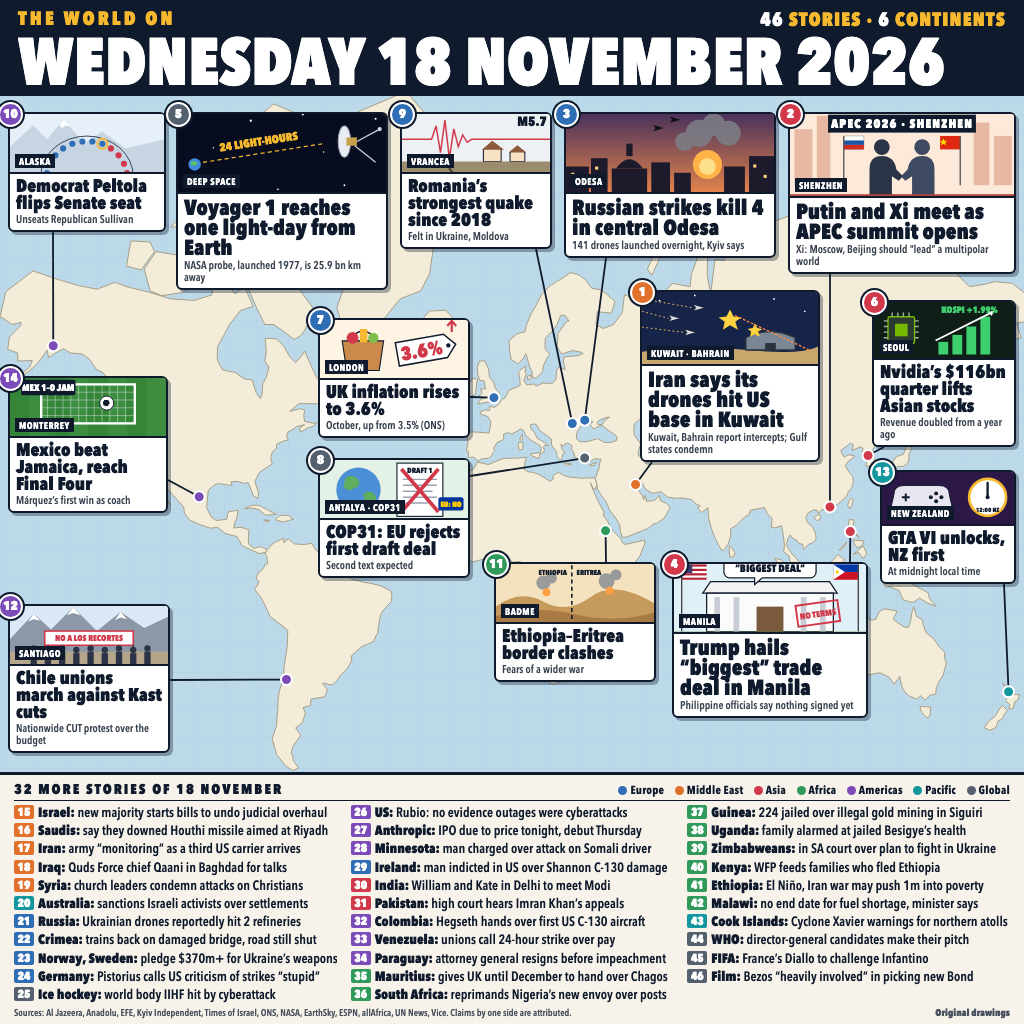
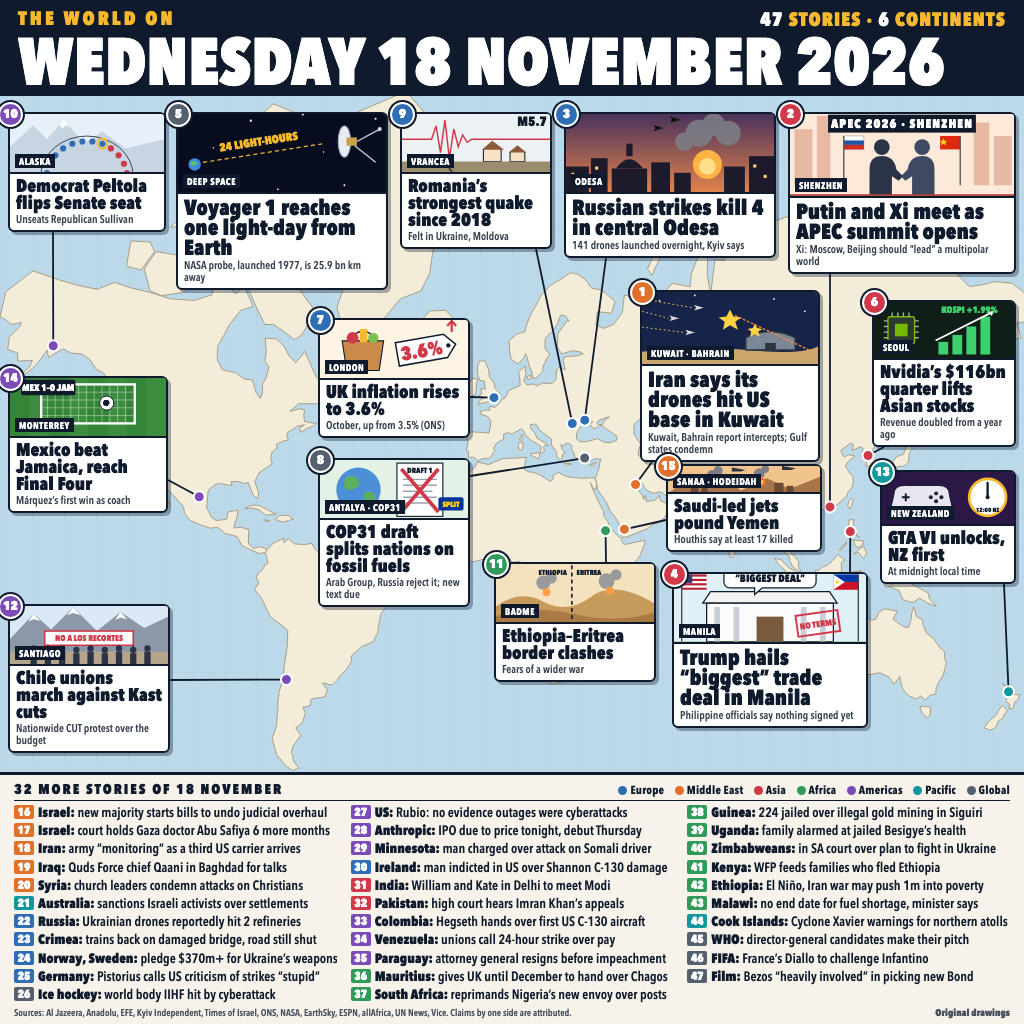
Afternoon refresh: Saudi-led strikes on Yemen card, COP31 split, 47 stories

diff --git a/layout/map.html b/layout/map.html
@@ -88,7 +88,7 @@
 
 <header>
   <div class="kicker">THE WORLD ON</div>
-  <div class="count"><b>46</b> STORIES · <b>6</b> CONTINENTS</div>
+  <div class="count"><b>47</b> STORIES · <b>6</b> CONTINENTS</div>
   <h1>WEDNESDAY 18 NOVEMBER 2026</h1>
 </header>
 
@@ -266,7 +266,7 @@ const V = {
     <text x="135" y="24" font-family="Avenir Next Condensed" font-weight="800" font-size="10" fill="#0f1b2d" text-anchor="middle">DRAFT 1</text>
     <g stroke="#9aa3ad" stroke-width="2"><path d="M112 32h46M112 40h46M112 48h40M112 56h46M112 64h34"/></g>
     <path d="M110 18 L160 76 M160 18 L110 76" stroke="#d1394b" stroke-width="5"/>
-    <rect x="160" y="56" width="34" height="18" rx="3" fill="#003399"/><text x="177" y="69" font-family="Avenir Next Condensed" font-weight="800" font-size="10" fill="#ffcc00" text-anchor="middle">EU: NO</text>`,
+    <rect x="160" y="56" width="34" height="18" rx="3" fill="#003399"/><text x="177" y="69" font-family="Avenir Next Condensed" font-weight="800" font-size="10" fill="#ffcc00" text-anchor="middle">SPLIT</text>`,
   ethiopia: `<rect width="200" height="90" fill="#f4e1bd"/>
     <path d="M0 62 Q30 40 60 56 T120 50 T200 58 V90 H0z" fill="#c69a5b"/>
     <path d="M0 74 Q50 60 100 72 T200 70 V90 H0z" fill="#a97a43"/>
@@ -284,6 +284,12 @@ const V = {
     <g fill="#2a3446"><circle cx="30" cy="62" r="4"/><circle cx="48" cy="64" r="4"/><circle cx="66" cy="62" r="4"/><circle cx="84" cy="64" r="4"/><circle cx="102" cy="62" r="4"/><circle cx="120" cy="64" r="4"/><circle cx="138" cy="62" r="4"/><circle cx="156" cy="64" r="4"/><circle cx="174" cy="62" r="4"/>
     <rect x="26" y="66" width="8" height="18"/><rect x="44" y="68" width="8" height="18"/><rect x="62" y="66" width="8" height="18"/><rect x="80" y="68" width="8" height="18"/><rect x="98" y="66" width="8" height="18"/><rect x="116" y="68" width="8" height="18"/><rect x="134" y="66" width="8" height="18"/><rect x="152" y="68" width="8" height="18"/><rect x="170" y="66" width="8" height="18"/></g>
     <g stroke="#2a3446" stroke-width="2"><path d="M48 58 V64M156 58V64"/></g>`,
+  yemen: `<rect width="200" height="90" fill="#f2c48d"/>
+    <path d="M0 64 L24 46 L44 58 L70 40 L96 60 L130 44 L160 58 L200 42 V90 H0z" fill="#a8744a"/>
+    <g fill="#6b4a33"><rect x="30" y="52" width="10" height="12"/><rect x="44" y="48" width="8" height="16"/><rect x="140" y="50" width="12" height="14"/><rect x="156" y="54" width="9" height="10"/></g>
+    <g fill="#7d7d86"><circle cx="58" cy="40" r="7"/><circle cx="66" cy="34" r="6"/><circle cx="120" cy="38" r="7"/><circle cx="128" cy="32" r="5"/></g>
+    <g fill="#ff7b2e"><circle cx="60" cy="50" r="6"/><circle cx="122" cy="48" r="6"/></g><g fill="#ffd23f"><circle cx="60" cy="51" r="3"/><circle cx="122" cy="49" r="3"/></g>
+    <g fill="#2b3440"><path d="M84 30 l18 3 l-6 2 l-12 0z"/><path d="M150 28 l18 3 l-6 2 l-12 0z"/></g>`,
   gta: `<rect width="200" height="90" fill="#2b1846"/>
     <circle cx="160" cy="44" r="28" fill="#fff" stroke="#f5b82e" stroke-width="4"/>
     <path d="M160 44 V22 M160 44 V24" stroke="#0f1b2d" stroke-width="3.5" stroke-linecap="round"/><circle cx="160" cy="44" r="3" fill="#0f1b2d"/>
@@ -300,16 +306,17 @@ const CARDS = [
   { n:1, big:true, col:C.me, x:640, y:290, w:180, ih:74, v:'iran', tag:'Kuwait · Bahrain', h:'Iran says its drones hit US base in Kuwait', p:'Kuwait, Bahrain report intercepts; Gulf states condemn', dot:[47.98,29.37], from:[652,0] },
   { n:2, big:true, col:C.as, x:788, y:112, w:228, ih:84, v:'putinxi', tag:'Shenzhen', h:'Putin and Xi meet as APEC summit opens', p:'Xi: Moscow, Beijing should “lead” a multipolar world', dot:[114.06,22.54], from:[830,0] },
   { n:3, big:true, col:C.eu, x:564, y:112, w:212, ih:80, v:'odesa', tag:'Odesa', h:'Russian strikes kill 4 in central Odesa', p:'141 drones launched overnight, Kyiv says', dot:[30.73,46.48], from:[606,0] },
-  { n:4, big:true, col:C.as, x:672, y:562, w:196, ih:70, v:'trumpph', tag:'Manila', h:'Trump hails “biggest” trade deal in Manila', p:'Philippine officials say nothing signed yet', dot:[120.98,14.6], from:[850,0] },
+  { n:4, big:true, col:C.as, x:672, y:572, w:196, ih:70, v:'trumpph', tag:'Manila', h:'Trump hails “biggest” trade deal in Manila', p:'Philippine officials say nothing signed yet', dot:[120.98,14.6], from:[850,0] },
   { n:5, big:true, col:C.gl, x:176, y:112, w:212, ih:80, v:'voyager', tag:'Deep space', h:'Voyager 1 reaches one light-day from Earth', p:'NASA probe, launched 1977, is 25.9 bn km away', dot:null },
   { n:6, col:C.as, x:872, y:300, w:144, ih:58, v:'nvidia', tag:'Seoul', h:'Nvidia’s $116bn quarter lifts Asian stocks', p:'Revenue doubled from a year ago', dot:[127,37.57], from:[884,0] },
   { n:7, col:C.eu, x:318, y:318, w:152, ih:60, v:'uk', tag:'London', h:'UK inflation rises to 3.6%', p:'October, up from 3.5% (ONS)', dot:[-0.13,51.5], from:[0,397] },
-  { n:8, col:C.gl, x:318, y:458, w:152, ih:60, v:'cop', tag:'Antalya · COP31', h:'COP31: EU rejects first draft deal', p:'Second text expected', dot:[30.7,36.9], from:[0,476] },
+  { n:8, col:C.gl, x:318, y:458, w:152, ih:60, v:'cop', tag:'Antalya · COP31', h:'COP31 draft splits nations on fossil fuels', p:'Arab Group, Russia reject it; new text due', dot:[30.7,36.9], from:[0,476] },
   { n:9, col:C.eu, x:400, y:112, w:152, ih:60, v:'romania', tag:'Vrancea', h:'Romania’s strongest quake since 2018', p:'Felt in Ukraine, Moldova', dot:[26.5,45.7], from:[536,0] },
   { n:10, col:C.am, x:8, y:112, w:158, ih:60, v:'alaska', tag:'Alaska', h:'Democrat Peltola flips Senate seat', p:'Unseats Republican Sullivan', dot:[-149.9,61.2], from:[53,0] },
   { n:11, col:C.af, x:494, y:562, w:162, ih:60, v:'ethiopia', tag:'Badme', h:'Ethiopia–Eritrea border clashes', p:'Fears of a wider war', dot:[37.8,14.9], from:[606,0] },
   { n:12, col:C.am, x:8, y:604, w:162, ih:60, v:'chile', tag:'Santiago', h:'Chile unions march against Kast cuts', p:'Nationwide CUT protest over the budget', dot:[-70.65,-33.45], from:[0,680] },
   { n:13, col:C.pa, x:880, y:470, w:136, ih:54, v:'gta', tag:'New Zealand', h:'GTA VI unlocks, NZ first', p:'At midnight local time', dot:[174.76,-36.85], from:[1004,0] },
+  { n:15, col:C.me, x:666, y:464, w:156, ih:28, v:'yemen', tag:'Sanaa · Hodeidah', h:'Saudi-led jets pound Yemen', p:'Houthis say at least 17 killed', dot:[44.2,15.35], from:[0,520] },
   { n:14, col:C.am, x:8, y:376, w:160, ih:60, v:'mexico', tag:'Monterrey', h:'Mexico beat Jamaica, reach Final Four', p:'Márquez’s first win as coach', dot:[-100.3,25.67], from:[0,480] }
 ];
 
@@ -341,7 +348,7 @@ for (const c of CARDS) {
 // ---------- The numbered list ----------
 const LIST = [
   ['me','Israel','new majority starts bills to undo judicial overhaul'],
-  ['me','Saudis','say they downed Houthi missile aimed at Riyadh'],
+  ['me','Israel','court holds Gaza doctor Abu Safiya 6 more months'],
   ['me','Iran','army “monitoring” as a third US carrier arrives'],
   ['me','Iraq','Quds Force chief Qaani in Baghdad for talks'],
   ['me','Syria','church leaders condemn attacks on Christians'],
@@ -376,7 +383,7 @@ const LIST = [
 const ol = document.getElementById('list');
 LIST.forEach((it, i) => {
   const li = document.createElement('li');
-  li.innerHTML = `<span class="n" style="background:var(--${it[0]})">${i + 15}</span><b>${it[1]}:</b> ${it[2]}`;
+  li.innerHTML = `<span class="n" style="background:var(--${it[0]})">${i + 16}</span><b>${it[1]}:</b> ${it[2]}`;
   ol.appendChild(li);
 });
 </script>

diff --git a/stories.md b/stories.md
@@ -17,7 +17,8 @@ and was checked against a dated source. Claims made by one party are attributed 
 | 7 | Europe | Romania's strongest quake since 2018 | M5.7 (INFP), 02:50 local, 120 km deep; felt in Ukraine and Moldova; minor injuries, no deaths reported | https://kyivindependent.com/strongest-earthquake-in-years-hits-romania-tremors-felt-in-ukraine/ |
 | 8 | Europe | Russian strikes kill 4 in central Odesa | Odesa strike kills 4, injures 9; 141 drones launched overnight; attacks killed 5 across Ukraine in past day | https://kyivindependent.com/news-archive/ (18 Nov feed) |
 | 9 | Europe | UK inflation rises to 3.6% | ONS: CPI 3.6% in 12 months to October, up from 3.5% | https://www.ons.gov.uk/economy/inflationandpriceindices/bulletins/consumerpriceinflation/october2026 |
-| 10 | Climate | COP31: EU rejects first draft | EU rejected first draft of final agreement in Antalya; second text expected; finance "blocked" | EFE agenda (above) · AA briefing (above) |
+| 10 | Climate | COP31 draft splits nations on fossil fuels | Draft calls for faster fossil-fuel phase-out; Arab Group and Russia reject it; EU's Hoekstra: "shopping list"; Bowen: at least one more draft; EU rejected first draft (EFE) | https://www.technology.org/2026/11/18/cop31-draft-fossil-fuel-phase-out-antalya-bowen/ · https://www.arabnews.com/middle-east/tensions-rise-over-cop31-draft-deal-3012534 · EFE agenda (above) |
+| 10b | Middle East | Saudi-led jets pound Yemen | Coalition (Maj. Gen. Turki al-Malki) says major air attack on Sanaa and three provinces; Houthi health ministry: at least 17 killed, 15 at a Hodeida sponge factory; Houthi cruise missiles at Riyadh, two destroyed | https://www.clickorlando.com/news/world/2026/11/18/saudi-backed-forces-launch-major-attack-on-houthis-and-other-mideast-news/ (AP) |
 | 11 | Americas | Democrat Peltola flips Alaska Senate seat | AP called race for Mary Peltola over Dan Sullivan Tuesday night; AA: gives Democrats 56-44 | https://www.aljazeera.com/news/2026/11/18/mary-peltola-wins-alaska-senate-seat-in-another-democratic-win |
 | 12 | Africa | Ethiopia–Eritrea border clashes | Skirmishes and artillery near Badme; fears of wider war | https://allafrica.com/stories/202611180083.html · DW via allAfrica 18 Nov |
 | 13 | Middle East | Knesset bloc moves to repeal judicial overhaul | New majority (speaker Kahana elected 66-52) starts bills to reverse overhaul laws | https://www.timesofisrael.com/liveblog-november-18-2026/ |
@@ -29,7 +30,8 @@ and was checked against a dated source. Claims made by one party are attributed 
 
 | Region | Line | Source |
 |--------|------|--------|
-| Gulf | Saudi says it downed Houthi cruise missile aimed at Riyadh | https://www.timesofisrael.com/liveblog-november-18-2026/ |
+| Israel | Court extends detention of Gaza doctor Hussam Abu Safiya by six months | AP roundup (above) |
+| Gulf | (folded into the Yemen card) Saudi says it downed Houthi cruise missiles aimed at Riyadh | https://www.timesofisrael.com/liveblog-november-18-2026/ |
 | Iran | Army chief: forces "monitoring" as third US carrier arrives | Al Jazeera live (above) |
 | Iraq | IRGC Quds chief Qaani in Baghdad amid Kataib Hezbollah tensions | https://www.aljazeera.com/news/2026/11/18/top-irgc-commander-in-iraq-for-talks-amid-kataib-hezbollah-tensions |
 | Syria | Church leaders condemn kidnappings of Christians | ToI live (above) |
@@ -68,3 +70,10 @@ and was checked against a dated source. Claims made by one party are attributed 
 - Not confirmed: Colombia Q3 GDP (-0.8% vs +0.5% in two sources), Thaçi obstruction sentence, Weah arrest (rumour,
   denied by government), Gmail outage.
 - After the build cut-off: US market close, Anthropic IPO price.
+- EU €45 bn Ukraine loan for 2027: the Commission proposal dates from 30 October, so not new on 18 November.
+
+## Refresh at 13:20 UTC
+
+GTA VI confirmed live in New Zealand at 11:00 UTC (https://windowsreport.com/gta-6-officially-releases-in-new-zealand-ahead-of-the-world/).
+Odesa toll unchanged at 4. Added the Yemen air campaign as a map card; COP31 card reworded to the wider split.
+Final count: 15 on the map, 32 in the list, 47 in all.

diff --git a/README.md b/README.md
@@ -6,8 +6,8 @@
 
 The world's news of Wednesday 18 November 2026 in one picture: an illustrated world map with the day's biggest
 stories drawn as vignettes on their locations (Iran's drone attack on a US base in Kuwait, Putin and Xi at APEC in
-Shenzhen, Russian strikes on Odesa, Trump's Philippines trade claim, Voyager 1 reaching one light-day from Earth and
-more), plus a numbered list of further stories from every continent. The research log with sources is in
+Shenzhen, Russian strikes on Odesa, Trump's Philippines trade claim, Voyager 1 reaching one light-day from Earth,
+Saudi-led strikes on Yemen and more), plus a numbered list of further stories from every continent: 47 in all. The research log with sources is in
 `stories.md`; the layout is hand-written HTML and SVG in `layout/map.html`, rendered to `entry.png` by `render.sh`.
 `main.py` checks the image and copies it to `/output/entry.png`.
 
